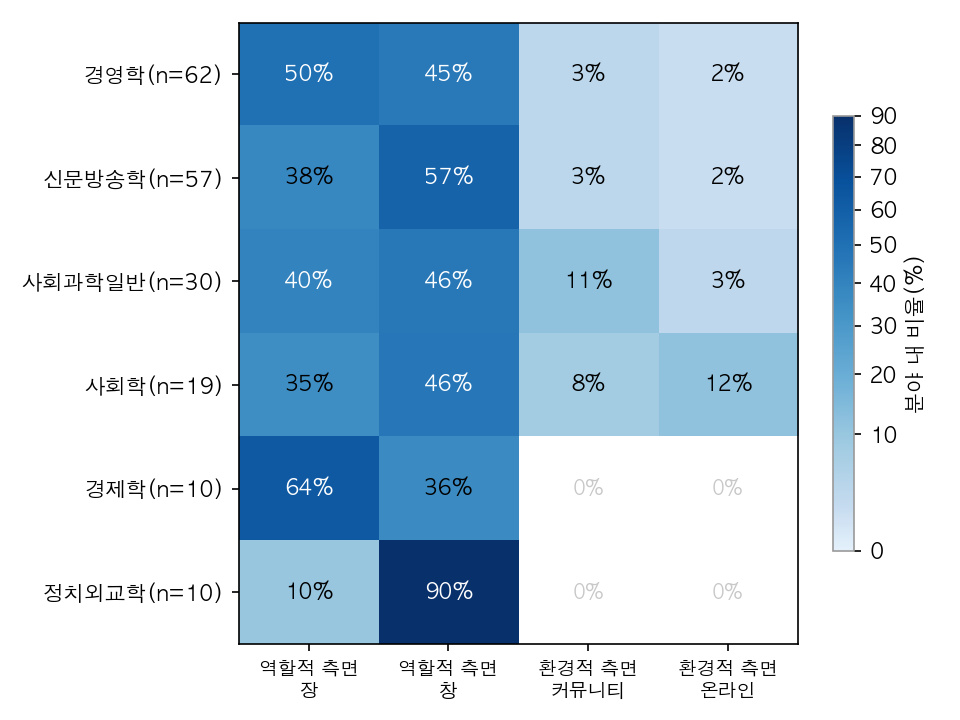
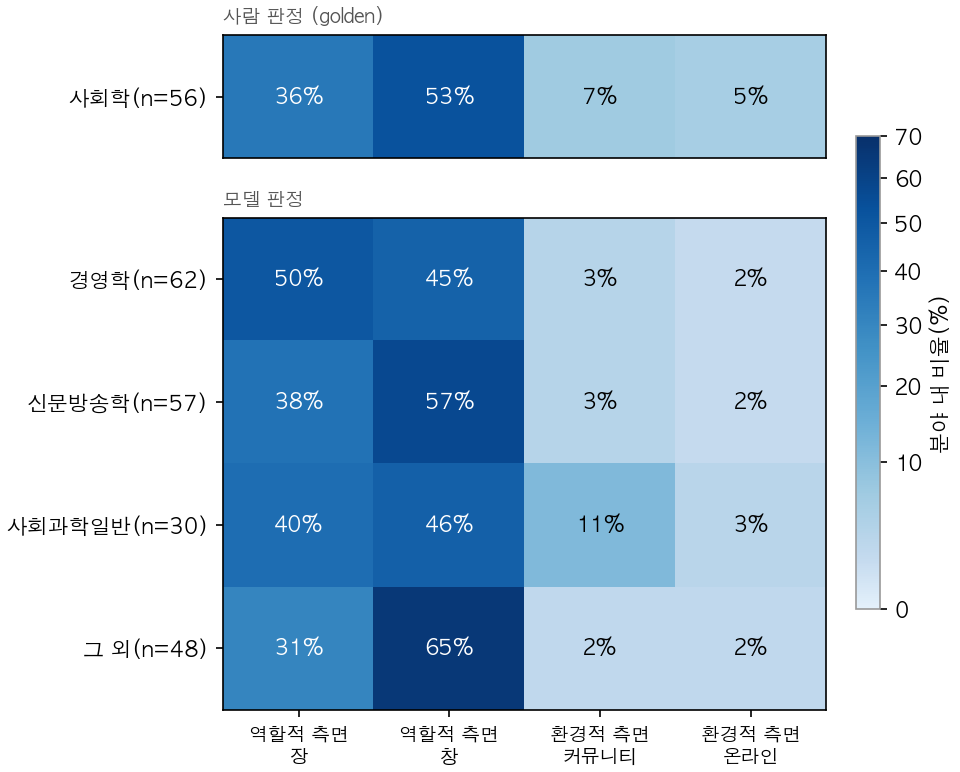
20261001

diff --git a/target_new/visualize_results.py b/target_new/visualize_results.py
@@ -683,7 +683,7 @@ def chart5b_field_fieldwindow_diverging(df: pd.DataFrame) -> None:
     plt.close(fig)
 
 
-def _field_code_table(df: pd.DataFrame) -> tuple[pd.DataFrame, pd.Series]:
+def _field_code_table(df: pd.DataFrame, min_papers: int = 10) -> tuple[pd.DataFrame, pd.Series]:
     """분야 x 개별 코드(11개) 등장 횟수 표와, 분야별 문헌 수(status=ERR/NO_ABSTRACT 제외)를
     만든다. 4번(11개 코드)과 4b번(2단계 그룹 4개) 히트맵이 같은 집계를 쓰도록 공통으로 뺐다.
 
@@ -717,7 +717,9 @@ def _field_code_table(df: pd.DataFrame) -> tuple[pd.DataFrame, pd.Series]:
     # 열 순서: ROLE_FIELD_* -> ROLE_WINDOW_* -> ENV_* 순으로 고정 (원래 11개 코드 정의 순서와 맞춤)
     table = table.reindex(columns=ALL_CODES, fill_value=0)
 
-    included_fields = field_totals[field_totals >= 10].index
+    # min_papers: 히트맵에 개별 행으로 넣을 최소 문헌 수. 4b번은 작은 분야를 "그 외"로 합쳐서
+    # 보여주므로 0으로 불러 모든 분야를 받은 뒤 직접 합친다
+    included_fields = field_totals[field_totals >= min_papers].index
     table = table.loc[table.index.intersection(included_fields)]
     field_counts = field_totals.reindex(table.index).fillna(0).astype(int)
     return table, field_counts
@@ -749,20 +751,81 @@ CODE_GROUP_LABELS = {
 }
 
 
+# 사람이 직접 판정한 사회학 논문(golden). 첫 줄에 논문 정보 + 첫 라벨, 2·3번째 라벨은 그 아래 줄에
+# 논문명 없이 이어진다. 4b번 히트맵 맨 위에 "사회학(golden)" 행으로 따로 붙인다
+GOLDEN_XLSX = TARGET_DIR.parent / "full_golden.xlsx"
+GOLDEN_ROW_LABEL = "사회학"  # 패널 제목에 "사람 판정 (golden)"이 있어 행 이름엔 분야만
+
+
+def _golden_group_row() -> tuple[pd.DataFrame, pd.Series] | None:
+    """golden 엑셀을 코드 그룹(4개) 등장 횟수 1행 표와 논문 수로 만든다. 파일이 없으면 None."""
+    if not GOLDEN_XLSX.exists():
+        print(f"golden 파일 없음 - 4b 히트맵에 golden 행을 붙이지 않음: {GOLDEN_XLSX}")
+        return None
+    golden = pd.read_excel(GOLDEN_XLSX)
+    golden["paper"] = golden["논문명"].notna().cumsum()  # 논문명이 있는 줄마다 새 논문 시작
+    golden["title"] = golden["논문명"].ffill().str.replace(r"\s+", "", regex=True)
+
+    # 같은 논문이 2~3번 중복으로 들어 있는 경우가 있다(2026-10-01 기준 73건 중 14편이 중복, 라벨도
+    # 동일). 그대로 세면 라벨이 많은 논문이 2~3배로 집계되므로 제목(공백 제거) 기준 첫 번째만 쓴다
+    first_paper = golden.groupby("title")["paper"].transform("min")
+    deduped = golden[golden["paper"] == first_paper]
+    n_dup = golden["paper"].nunique() - deduped["paper"].nunique()
+    if n_dup:
+        print(f"golden: 중복 논문 {n_dup}건 제외 -> {deduped['paper'].nunique()}편")
+
+    labels = deduped["Golden label"].dropna().str.strip()
+    groups = labels.map(lambda code: "_".join(code.split("_")[:2]))
+    row = groups.value_counts().reindex(CODE_GROUPS, fill_value=0)
+    table = row.rename(GOLDEN_ROW_LABEL).to_frame().T
+    n = pd.Series({GOLDEN_ROW_LABEL: int(deduped["paper"].nunique())})
+    return table, n
+
+
+# 4b번 히트맵에서 따로 보여줄 주요 분야(이 순서대로 위에서부터) - 나머지는 "그 외" 한 행으로 합친다
+HEATMAP_MAIN_FIELDS = ["경영학", "신문방송학", "사회과학일반", "사회학"]
+OTHER_FIELDS_LABEL = "그 외"
+
+
 def chart4b_field_code_group_heatmap(df: pd.DataFrame) -> None:
     """4b. 분야별 x 코드 그룹(2단계) 히트맵 - 11개 코드를 이름 앞 두 단계(ROLE_FIELD / ROLE_WINDOW /
     ENV_COMMUNITY / ENV_ONLINE)로 묶어 합친다. 4번과 같은 집계를 열만 합친 것이라, 각 칸은 그 분야
     코드 중 해당 그룹이 차지하는 비율이고 y축 n은 그 분야의 role/env 코드 부여 문헌 수(포함 기준과 동일)다."""
-    table, field_counts = _field_code_table(df)
+    table, field_counts = _field_code_table(df, min_papers=0)  # 작은 분야도 받아서 "그 외"로 합친다
     grouped = table.T.groupby(lambda code: "_".join(code.split("_")[:2])).sum().T
     grouped = grouped.reindex(columns=CODE_GROUPS, fill_value=0)
     # 열이 4개뿐이라 칸이 좁아서 한 줄로 쓰면 이웃 라벨과 겹친다 - 위/아래 두 줄로 나눠 표시
     grouped.columns = [CODE_GROUP_LABELS[group] for group in grouped.columns]
+
+    # golden(사람 판정 사회학)이 있으면 위 패널이 사회학을 대표하므로, 아래 모델 패널에서는 사회학을
+    # 아예 뺀다("그 외"에도 넣지 않음) - 같은 분야가 위아래 두 번 나오지 않게
+    golden = _golden_group_row()
+    if golden is not None:
+        grouped = grouped.drop(index=REFERENCE_FIELD, errors="ignore")
+
+    # 주요 분야는 그대로, 나머지는 코드 수와 문헌 수를 더해 "그 외" 한 행으로 합친다. 작은 분야는
+    # 문헌이 몇 편뿐이라 비율이 극단적으로 튀어서(예: 인류학 1편 -> 100%) 따로 보여주면 오히려 헷갈린다
+    main = [f for f in HEATMAP_MAIN_FIELDS if f in grouped.index]
+    others = [f for f in grouped.index if f not in main]
+    rows = grouped.loc[main]
+    row_n = field_counts.reindex(main).fillna(0).astype(int)
+    if others:
+        rows = pd.concat([rows, grouped.loc[others].sum().rename(OTHER_FIELDS_LABEL).to_frame().T])
+        row_n[OTHER_FIELDS_LABEL] = int(field_counts.reindex(others).fillna(0).sum())
+        print(f"4b 히트맵 '{OTHER_FIELDS_LABEL}' 행에 합친 분야: {', '.join(others)}")
+
+    reference = None
+    if golden is not None:
+        golden_table, golden_n = golden
+        golden_table.columns = [CODE_GROUP_LABELS[group] for group in golden_table.columns]
+        reference = (golden_table, golden_n, "사람 판정 (golden)", "모델 판정")
+
     _draw_heatmap(
-        grouped,
+        rows,
         title="분야별 코드 그룹(4개) 등장 횟수",
         out_path=OUT_DIR / "4b_분야별_코드그룹_히트맵.png",
-        row_n=field_counts,
+        row_n=row_n,
+        reference=reference,
     )
 
 
@@ -774,41 +837,28 @@ def _row_normalize_pct(table: pd.DataFrame) -> pd.DataFrame:
     return table.div(row_sums.where(row_sums != 0, 1), axis=0) * 100
 
 
-def _draw_heatmap(
+def _heatmap_panel(
+    ax,
     table: pd.DataFrame,
-    title: str,
-    out_path: Path,
+    pct: pd.DataFrame,
+    row_totals: pd.Series,
+    norm,
+    cmap,
+    show_xticks: bool = True,
     rotate_xlabels: bool = False,
-    row_n: pd.Series | None = None,
-) -> None:
-    """table은 원자료(등장 횟수)를 받되, 실제 색상은 행(분야) 기준으로 정규화한 비율로
-    칠한다 - 분야별 문헌 수가 크게 달라서 원본 횟수로는 큰 분야만 도드라져 보이기 때문.
-    칸 안에는 비율(%)만 적는다(원자료 개수를 칸마다 같이 적으면 오히려 헷갈려서 뺌).
-    대신 행(분야)당 전체 원자료 합(n)을 y축 분야 이름에 "분야명(n=N)" 형태로 붙인다 - 표본이 1~2개뿐인
-    분야가 100%/0%로 극단적으로 보이는 착시(예: 논문 1편짜리 분야)를 바로 알아채기 위함.
-    row_n을 주면 원자료 합 대신 그 값(예: 분야별 논문 편수)을 n으로 쓴다.
-
-    색상은 PowerNorm(gamma<1)으로 매핑해서 낮은 값(0~20%대)도 색 차이가 잘 보이게 한다.
-    범례 상한(vmax)은 최소 50이지만, 실제 데이터 최댓값이 그보다 크면(예: 3번처럼 열이 2개뿐이라
-    한쪽이 80~100%까지 올라가는 경우) 그 최댓값까지 늘린다 - 안 그러면 범례는 50까지인데
-    칸에는 100%라고 적힌 값이 나와서 범례와 실제 숫자가 안 맞아 보이는 문제가 생긴다."""
-    pct = _row_normalize_pct(table)
-    vmax = max(50, pct.values.max() if pct.values.size else 0)
-    norm = PowerNorm(gamma=0.6, vmin=0, vmax=vmax, clip=True)
-
-    width = max(6, 1.1 * len(table.columns) + 2)
-    fig, ax = plt.subplots(figsize=(width, max(4, 0.55 * len(table) + 1.5)))
-    # 0인 칸(코드가 한 번도 안 나온 칸)은 색을 칠하지 않고 흰색으로 둔다 - 값이 있는 칸만 눈에 띄게
-    cmap = HEATMAP_CMAP.copy()
-    cmap.set_bad("white")
+):
+    """히트맵 한 패널을 ax에 그린다 - 0인 칸은 흰색 + 회색 "0%", 나머지는 비율(%)을 적는다."""
     masked = np.ma.masked_where(table.values == 0, pct.values)
     im = ax.imshow(masked, cmap=cmap, aspect="auto", norm=norm)
 
     ax.set_xticks(range(len(table.columns)))
-    ax.set_xticklabels(table.columns, fontsize=9)
-    if rotate_xlabels:
-        plt.setp(ax.get_xticklabels(), rotation=40, ha="right")
-    row_totals = row_n.reindex(table.index).fillna(0).astype(int) if row_n is not None else table.sum(axis=1)
+    if show_xticks:
+        ax.set_xticklabels(table.columns, fontsize=9)
+        if rotate_xlabels:
+            plt.setp(ax.get_xticklabels(), rotation=40, ha="right")
+    else:
+        ax.set_xticklabels([])
+        ax.tick_params(axis="x", length=0)
     ax.set_yticks(range(len(table.index)))
     ax.set_yticklabels([f"{field}(n={row_totals[field]})" for field in table.index], fontsize=10)
 
@@ -820,10 +870,75 @@ def _draw_heatmap(
                 continue
             color = "white" if norm(pct_val) > 0.6 else "black"
             ax.text(j, i, f"{pct_val:.0f}%", ha="center", va="center", color=color, fontsize=10)
+    return im
 
-    cbar = fig.colorbar(im, ax=ax, shrink=0.7, label="분야 내 비율(%)")
+
+def _draw_heatmap(
+    table: pd.DataFrame,
+    title: str,
+    out_path: Path,
+    rotate_xlabels: bool = False,
+    row_n: pd.Series | None = None,
+    reference: tuple[pd.DataFrame, pd.Series, str, str] | None = None,
+) -> None:
+    """table은 원자료(등장 횟수)를 받되, 실제 색상은 행(분야) 기준으로 정규화한 비율로
+    칠한다 - 분야별 문헌 수가 크게 달라서 원본 횟수로는 큰 분야만 도드라져 보이기 때문.
+    칸 안에는 비율(%)만 적는다(원자료 개수를 칸마다 같이 적으면 오히려 헷갈려서 뺌).
+    대신 행(분야)당 전체 원자료 합(n)을 y축 분야 이름에 "분야명(n=N)" 형태로 붙인다 - 표본이 1~2개뿐인
+    분야가 100%/0%로 극단적으로 보이는 착시(예: 논문 1편짜리 분야)를 바로 알아채기 위함.
+    row_n을 주면 원자료 합 대신 그 값(예: 분야별 논문 편수)을 n으로 쓴다.
+
+    reference=(표, n, 위 패널 제목, 아래 패널 제목)을 주면 그 표를 위쪽에 간격을 두고 별도 패널로
+    그린다(4b번의 사람 판정 golden 행용). 두 패널은 같은 색 기준(norm)과 컬러바 하나를 공유해서
+    색을 그대로 비교할 수 있다.
+
+    색상은 PowerNorm(gamma<1)으로 매핑해서 낮은 값(0~20%대)도 색 차이가 잘 보이게 한다.
+    범례 상한(vmax)은 최소 50이지만, 실제 데이터 최댓값이 그보다 크면(예: 3번처럼 열이 2개뿐이라
+    한쪽이 80~100%까지 올라가는 경우) 그 최댓값까지 늘린다 - 안 그러면 범례는 50까지인데
+    칸에는 100%라고 적힌 값이 나와서 범례와 실제 숫자가 안 맞아 보이는 문제가 생긴다."""
+    pct = _row_normalize_pct(table)
+    row_totals = row_n.reindex(table.index).fillna(0).astype(int) if row_n is not None else table.sum(axis=1)
+    ref_pct = _row_normalize_pct(reference[0]) if reference is not None else None
+
+    # 상한을 10 단위로 올림한다 - 최댓값(예: 62%) 그대로 두면 matplotlib이 상한을 넘는 눈금(70)을
+    # 컬러바 끝에 붙여 60과 겹쳐 보인다. 눈금도 상한까지 직접 지정한다(아래 cbar.set_ticks).
+    # reference가 있으면 두 패널 중 큰 값 기준으로 잡아 같은 색이 같은 비율을 뜻하게 한다
+    max_pct = max(pct.values.max() if pct.values.size else 0, ref_pct.values.max() if ref_pct is not None else 0)
+    vmax = max(50, int(np.ceil(max_pct / 10) * 10))
+    norm = PowerNorm(gamma=0.6, vmin=0, vmax=vmax, clip=True)
+    # 0인 칸(코드가 한 번도 안 나온 칸)은 색을 칠하지 않고 흰색으로 둔다 - 값이 있는 칸만 눈에 띄게
+    cmap = HEATMAP_CMAP.copy()
+    cmap.set_bad("white")
+
+    width = max(6, 1.1 * len(table.columns) + 2)
+    if reference is None:
+        fig, ax = plt.subplots(figsize=(width, max(4, 0.55 * len(table) + 1.5)))
+        im = _heatmap_panel(ax, table, pct, row_totals, norm, cmap, rotate_xlabels=rotate_xlabels)
+        cbar_axes = ax
+        n_rows = len(table.index)
+    else:
+        ref_table, ref_n, ref_title, main_title = reference
+        ref_totals = ref_n.reindex(ref_table.index).fillna(0).astype(int)
+        n_ref, n_main = len(ref_table), len(table)
+        fig, (ax_ref, ax) = plt.subplots(
+            2, 1, figsize=(width, 0.55 * (n_ref + n_main) + 2.4),
+            gridspec_kw={"height_ratios": [n_ref, n_main]}, layout="constrained",
+        )
+        fig.get_layout_engine().set(hspace=0.08)  # 두 패널 사이 간격 - golden과 모델 결과를 구분
+        _heatmap_panel(ax_ref, ref_table, ref_pct, ref_totals, norm, cmap, show_xticks=False)
+        im = _heatmap_panel(ax, table, pct, row_totals, norm, cmap, rotate_xlabels=rotate_xlabels)
+        ax_ref.set_title(ref_title, loc="left", fontsize=9, color="#555555")
+        ax.set_title(main_title, loc="left", fontsize=9, color="#555555")
+        cbar_axes = [ax_ref, ax]
+        n_rows = n_ref + n_main
+
+    cbar = fig.colorbar(im, ax=cbar_axes, shrink=0.7, label="분야 내 비율(%)")
+    # 행이 적은 히트맵은 컬러바가 짧아서 10 단위 눈금이 위쪽에서 겹친다 - 그때는 20 단위로
+    tick_step = 10 if vmax <= 70 and n_rows >= 5 else 20
+    cbar.set_ticks(list(range(0, vmax + 1, tick_step)))
     cbar.outline.set_edgecolor("#999999")
-    fig.tight_layout()
+    if reference is None:
+        fig.tight_layout()
     fig.savefig(out_path, dpi=150)
     plt.close(fig)
 
